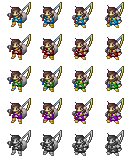
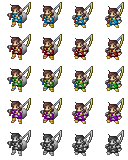
Fixed merchant-f

diff --git a/splitter.py b/splitter.py
@@ -248,6 +248,10 @@ HEAD_PARAMS = {
         'offset': [(-1,2),(-1,2),(-1,1),(-1,1),],
         'size': 'large',
         },
+    'merchant-f': {
+        'offset': [(0,2),(0,1),(0,0),(1,-1),],
+        'size': 'large',
+        },
     'merchant-m': {
         'offset': [(-2,2),(-2,1),(-2,0),(-1,-1),],
         'size': 'large',
